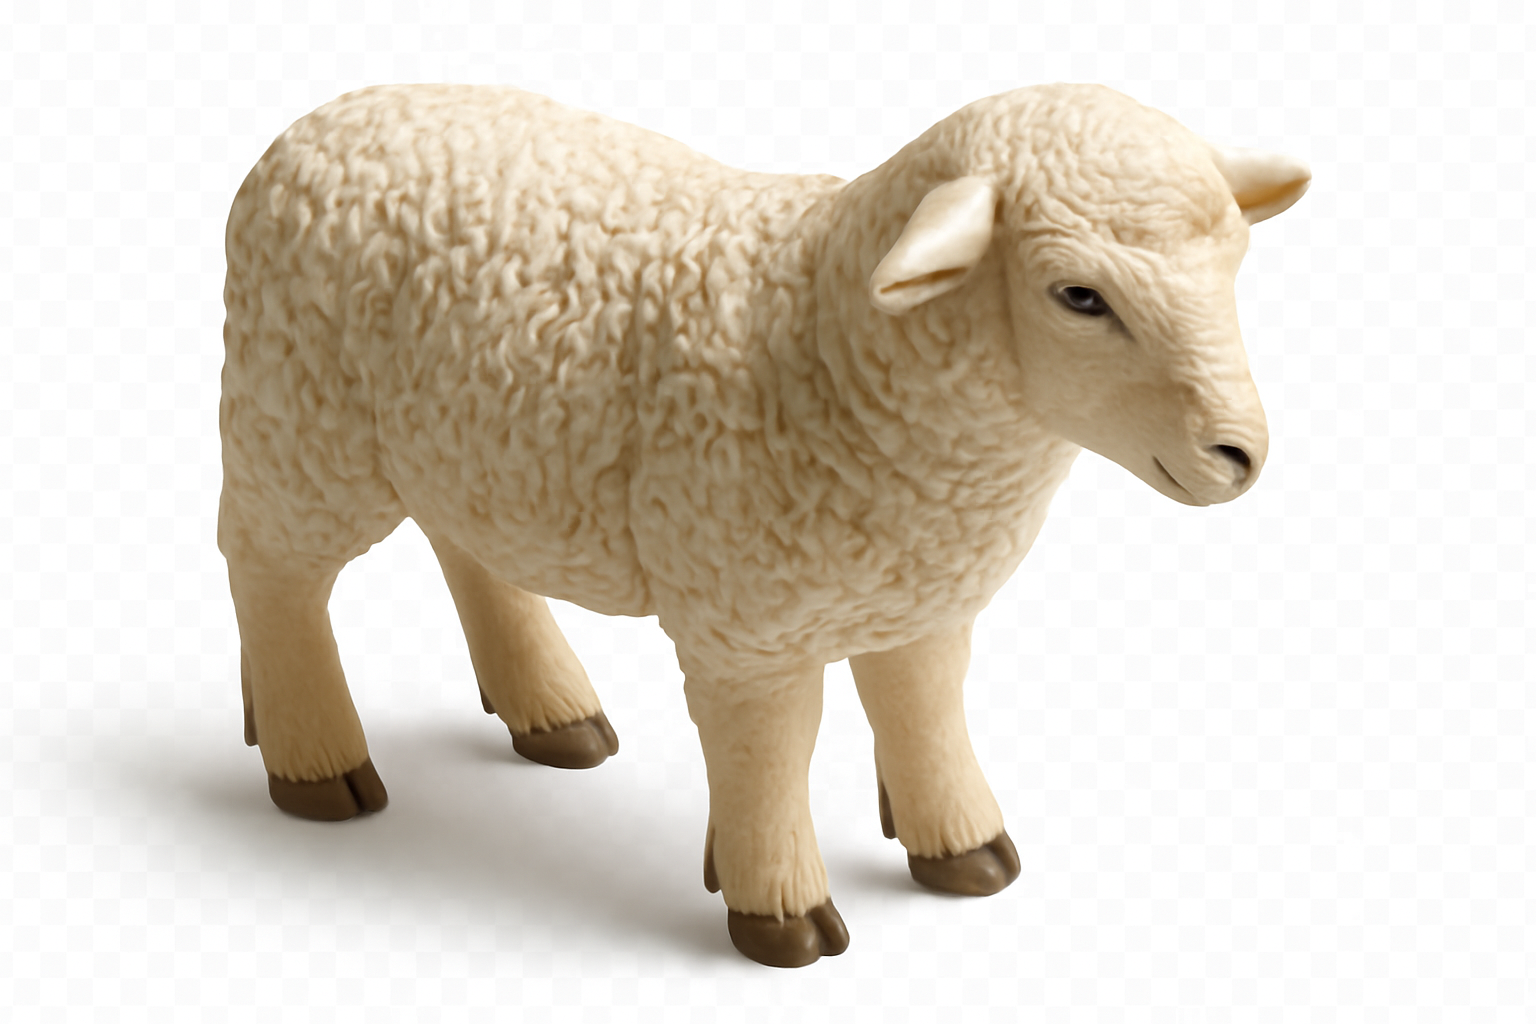
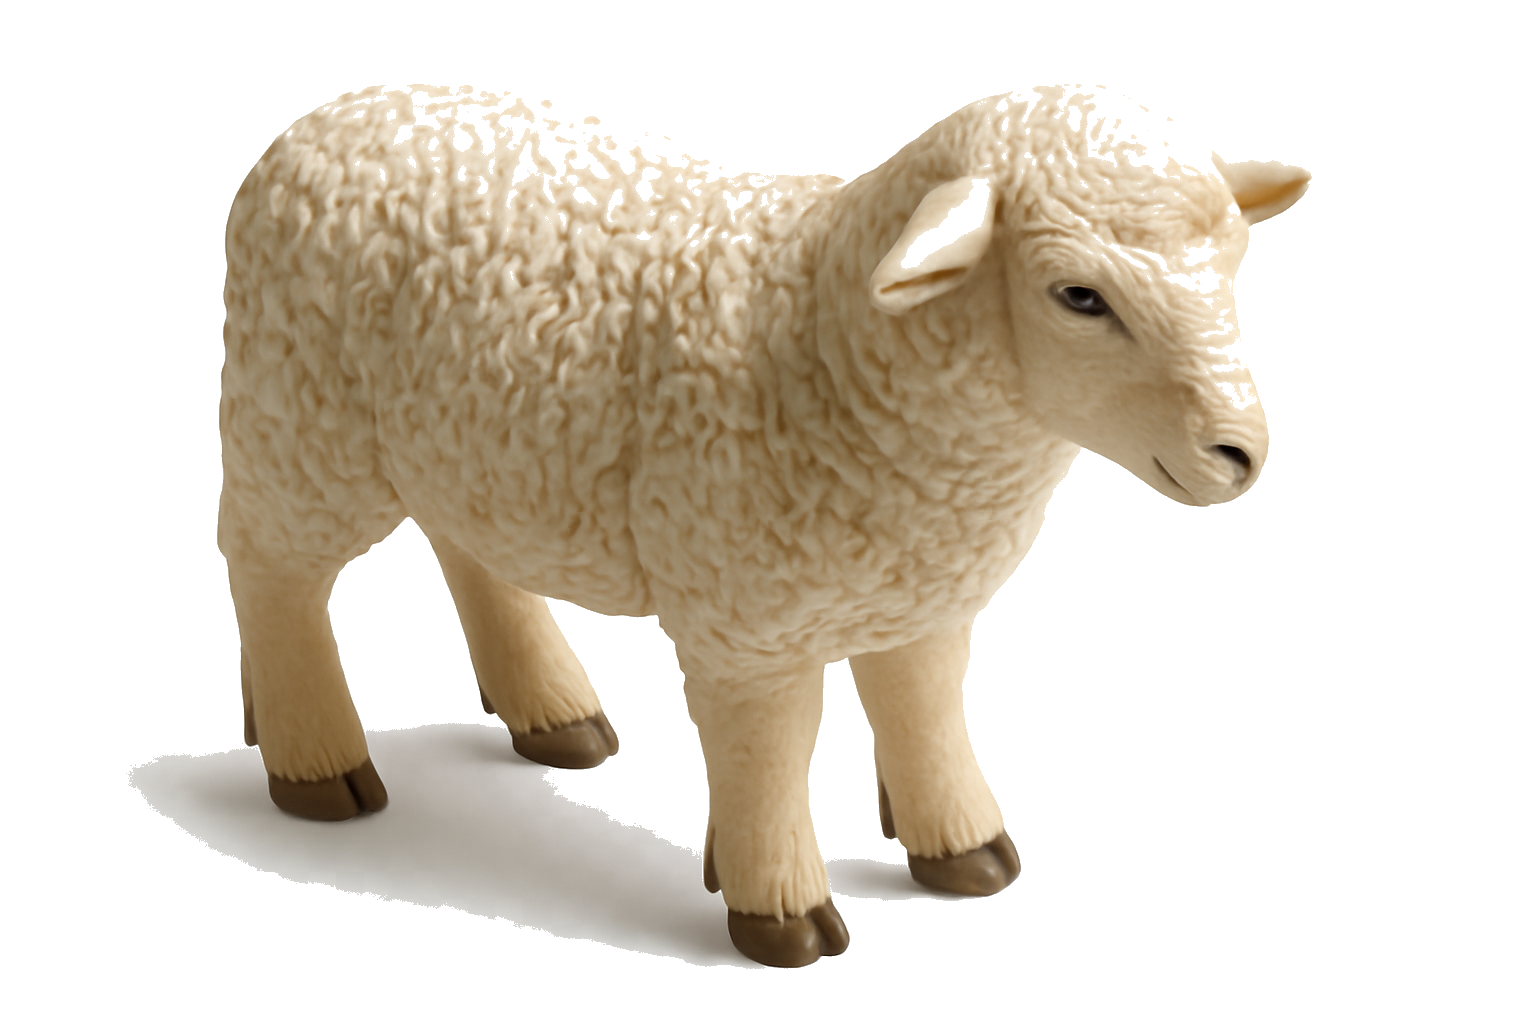
fixed

diff --git a/data/img_process.py b/data/img_process.py
@@ -3,7 +3,7 @@ import pathlib
 
 BASE_DIR = pathlib.Path(__file__).parent.parent / "static" / "elements"
 
-def white_to_transparent(img_path, output_path, threshold=210):
+def white_to_transparent(img_path, output_path, threshold=150):
 
     img = Image.open(img_path).convert("RGBA")
     datas = img.getdata()
@@ -19,6 +19,6 @@ def white_to_transparent(img_path, output_path, threshold=210):
     img.putdata(new_data)
     img.save(output_path, "PNG")
 
-image_name = "Lotus_Model.png"
+image_name = "Bull_Model.png"
 
 white_to_transparent(BASE_DIR / image_name, BASE_DIR / image_name)
